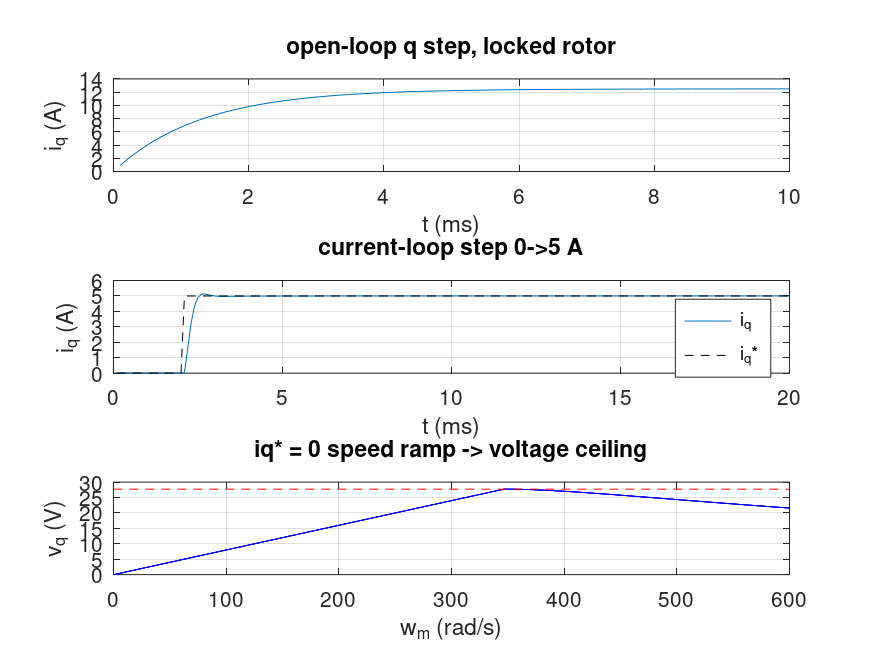
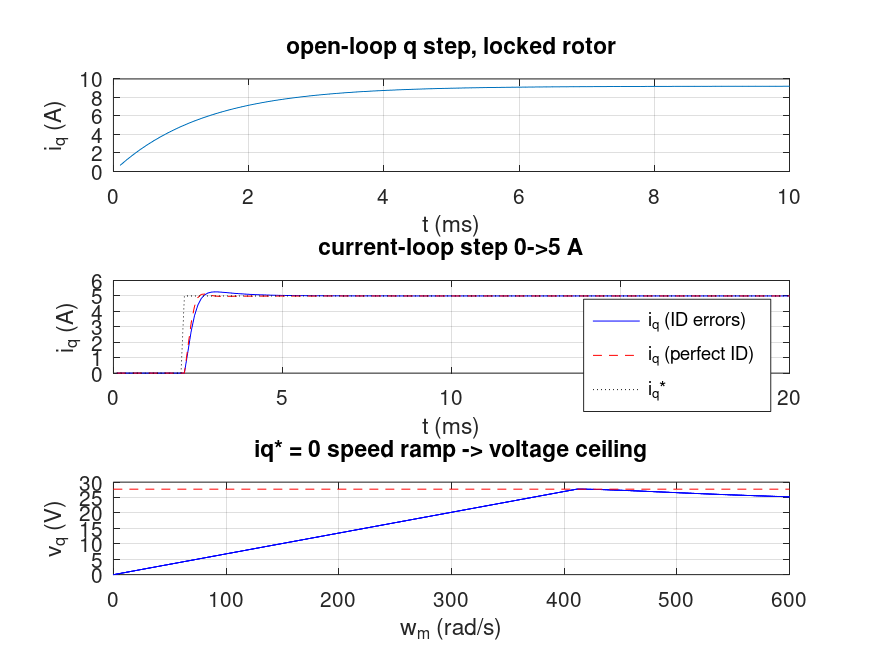
fix(octave): verify actuator parameters against datasheets; split plant truth from FOC belief
- params.m: re-source R/L/Kt/p from Kollmorgen TBM2G datasheets (tau_e cross-checked 1.34/0.93 ms vs research 1.3/0.9); winding defaults 06826-D / 05008-C — the A/C windings' back-EMF (74/37 V) exceeds the 48 V bus ceiling at rated speed
- foc_loop.m: gains, decoupling and back-EMF feedforward now use the controller's identification estimates (Rhat/Lhat/lambdahat), never the true plant values; errors bounded by datasheet tolerances
- test_electrical.m: winding-vs-ceiling table, ID-error vs perfect-ID comparison (5.3% vs 2.5% overshoot; 400 vs 500 Hz achieved crossover), lambda-error bus-headroom cost
- plan_stage2_realism.md: datasheet-verified flux-weakening note, 1.1 results, current-ripple magnitude

diff --git a/octave/actuator/test_electrical.m b/octave/actuator/test_electrical.m
@@ -3,6 +3,8 @@
 % Run from octave/actuator:  octave test_electrical.m
 % Rotor speed is an external input throughout (M.Jm = Inf): the mechanical
 % stage (two_mass.m) replaces this stand-in in 1.2.
+% Scenarios 2/5 contrast the FOC's BELIEF (identification results with
+% errors) against the plant's TRUTH — the FOC never has perfect parameters.
 
 clear; close all; more off;
 if ~exist('figs', 'dir'), mkdir('figs'); end
@@ -10,13 +12,21 @@ if ~exist('figs', 'dir'), mkdir('figs'); end
 M1 = params('j1');       % shoulder/elbow-class motor
 Mw = params('wrist');
 
-fprintf('\n== parameter sanity ==\n');
-fprintf('J1-3 : L/R = %.2f ms (research 1.3 ms), Kt = %.3f Nm/A, lambda = %.3f Wb\n', ...
-        M1.L/M1.R*1e3, M1.Kt, M1.lambda);
-fprintf('wrist: L/R = %.2f ms (research 0.9 ms), Kt = %.3f Nm/A\n', ...
-        Mw.L/Mw.R*1e3, Mw.Kt);
+fprintf('\n== parameter sanity (verified against [OEM] datasheets) ==\n');
+fprintf('J1-3 : tau_e = L/R = %.2f ms (research 1.3, datasheet L_ll/R_ll 1.34-1.35)\n', ...
+        M1.L/M1.R*1e3);
+fprintf('       R=%.4f L=%.4f mH Kt=%.4f Nm/Ap p=%d lambda=%.5f Wb\n', ...
+        M1.R, M1.L*1e3, M1.Kt, M1.p, M1.lambda);
+fprintf('wrist: tau_e = L/R = %.2f ms (research 0.9, datasheet L_ll/R_ll 0.91-0.96)\n', ...
+        Mw.L/Mw.R*1e3);
+fprintf('       R=%.4f L=%.4f mH Kt=%.4f Nm/Ap p=%d lambda=%.5f Wb\n', ...
+        Mw.R, Mw.L*1e3, Mw.Kt, Mw.p, Mw.lambda);
 fprintf('vmax = %.1f V (Vdc/sqrt(3), Vdc = %.0f V), fsw = %.0f Hz\n', ...
         M1.vmax, M1.Vdc, M1.fsw);
+fprintf('FOC belief (ID errors R +%.0f%%, L %+.0f%%, Kt +%.0f%%):\n', ...
+        M1.id_err.R*100, M1.id_err.L*100, M1.id_err.Kt*100);
+fprintf('  Rhat=%.4f Lhat=%.4f mH lambdahat=%.5f Wb\n', ...
+        M1.Rhat, M1.Lhat*1e3, M1.lambdahat);
 
 M = M1; dt = M.dt;
 M.Jm = Inf;               % electrical stage: wm is an external input
@@ -27,40 +37,42 @@ M.Jm = Inf;               % electrical stage: wm is an external input
 n1 = round(10e-3/dt);                     % 10 ms
 x = [0; 0; 0]; iq_ol = zeros(n1,1);
 for k = 1:n1
-  x = rk4_step(x, 0, 5, 0, M, dt);        % 5 V step on vq, wm = 0
+  x = rk4_step(x, 0, 1, 0, M, dt);        % 1 V step on vq, wm = 0
   iq_ol(k) = x(2);
 end
 t1 = (1:n1)'*dt*1e3;                      % ms
 [~,i63] = min(abs(iq_ol - (1-exp(-1))*iq_ol(end)));
 fprintf('\n[1] open-loop step (locked rotor):\n');
-fprintf('    i_ss = %.4f A (V/R = %.3f), measured tau_e = %.2f ms (target 1.3)\n', ...
-        iq_ol(end), 5/M.R, t1(i63));
-fprintf('    tau_em = Kt*i_q = %.3f Nm (%.3f expected)\n', M.Kt*iq_ol(end), M.Kt*5/M.R);
+fprintf('    i_ss = %.4f A (V/R = %.4f), measured tau_e = %.2f ms (target 1.34)\n', ...
+        iq_ol(end), 1/M.R, t1(i63));
+fprintf('    tau_em = Kt*i_q = %.4f Nm (%.4f expected)\n', M.Kt*iq_ol(end), M.Kt*1/M.R);
 
 % ------------------------------------------------------------------
-% 2) closed current loop: iq* step 0 -> 5 A, locked rotor
+% 2) closed current loop, DEFAULT identification errors: iq* 0 -> 5 A
 % ------------------------------------------------------------------
 x = [0; 0; 0]; s = zeros(4,1);
 n2 = round(20e-3/dt);
 t2 = (1:n2)'*dt*1e3;
-iq_cl = zeros(n2,1); vq_cl = zeros(n2,1);
+iq_cl = zeros(n2,1);
 for k = 1:n2
   iq_star = 5*(k*dt > 2e-3);
   [vd, vq, s] = foc_loop(x(1), x(2), x(3), 0, iq_star, M, s);
   x = rk4_step(x, vd, vq, 0, M, dt);
-  iq_cl(k) = x(2); vq_cl(k) = vq;
+  iq_cl(k) = x(2);
 end
 i10 = find(iq_cl >= 0.5, 1);
 i90 = find(iq_cl >= 4.5, 1);
 peak = max(iq_cl);
-iset = find(t2 > 2, 1);                   % after the step
+iset = find(t2 > 2, 1);
 err = abs(iq_cl(iset:end) - 5);
 its = find(err > 0.1, 1, 'last');         % 2 % band
 tset = ifelse(isempty(its), 0, its*dt*1e3);
-fprintf('\n[2] current-loop step 0->5 A (target crossover %.0f Hz):\n', M.wc/(2*pi));
-fprintf('    rise 10-90%% = %.2f ms, overshoot = %.1f %%, peak = %.2f A\n', ...
-        (i90-i10)*dt*1e3, (peak-5)/5*100, peak);
-fprintf('    settle (2%%)  = %.2f ms\n', tset);
+fprintf('\n[2] current-loop step 0->5 A, ID errors (design crossover %.0f Hz):\n', ...
+        M.wc/(2*pi));
+fprintf('    achieved crossover ~ %.0f Hz (Lhat/L mismatch: wc*Lhat/L)\n', ...
+        M.wc*M.Lhat/M.L/(2*pi));
+fprintf('    rise 10-90%% = %.2f ms, overshoot = %.1f %%, peak = %.2f A, settle (2%%) = %.2f ms\n', ...
+        (i90-i10)*dt*1e3, (peak-5)/5*100, peak, tset);
 
 % ------------------------------------------------------------------
 % 3) back-EMF at speed, open loop, v = 0
@@ -75,27 +87,37 @@ end
 % coupled 2x2 steady state (id-iq cross-coupling through we*L)
 iq_ss = -we*M.lambda*M.R/(M.R^2 + (we*M.L)^2);
 id_ss =  we*M.L*iq_ss/M.R;
-fprintf('\n[3] back-EMF at wm = %.0f rad/s, v = 0:\n', wm0);
+fprintf('\n[3] back-EMF at wm = %.0f rad/s (we = %.0f), v = 0:\n', wm0, we);
 fprintf('    iq -> %.3f A (coupled ss = %.3f), id -> %.3f A (ss = %.3f)\n', ...
         x(2), iq_ss, x(1), id_ss);
 
 % ------------------------------------------------------------------
-% 4) flux-weakening / voltage-ceiling check
+% 4) voltage ceiling: winding table + simulated ceiling
 % ------------------------------------------------------------------
 wm_rated = M.N*3.1416;                    % motor speed at 180 deg/s joint speed
-wm_nofw  = M.vmax*1.5/M.Kt;               % speed where back-EMF reaches the ceiling (iq=0)
-if wm_nofw > wm_rated
-  fw = 'no flux weakening needed';
-else
-  fw = 'FLUX WEAKENING REQUIRED';
+fprintf('\n[4] winding vs voltage ceiling at rated speed %.0f rad/s (vmax %.1f V):\n', ...
+        wm_rated, M.vmax);
+% Kt_rms per winding [OEM]: 06826 A/C/D and 05008 A/C/D
+Kt_wind = [0.496 0.248 0.143;             % J1-3 (TBM2G-06826)
+           0.171 0.086 0.049];            % wrist (TBM2G-05008)
+wname = {'j1-06826', 'wrist-05008'};
+wlbl = {'A', 'C', 'D'};                   % datasheet winding names
+for m = 1:2
+  for w = 1:3
+    Ktr = Kt_wind(m,w);
+    bemf = Ktr*wm_rated/(1.5*sqrt(2));    % back-EMF phase peak at rated speed
+    wm_nofw = M.vmax*1.5*sqrt(2)/Ktr;
+    if bemf < M.vmax
+      fits = sprintf('fits (%.2f x bus)', M.vmax/bemf);
+    else
+      fits = 'EXCEEDS ceiling -> needs field weakening';
+    end
+    fprintf('    %-10s winding %s: Kt=%.3f, back-EMF %.1f V -> %s\n', ...
+            wname{m}, wlbl{w}, Ktr, bemf, fits);
+  end
 end
-fprintf('\n[4] flux-weakening check:\n');
-fprintf('    rated motor speed = %.0f rad/s (joint 180 deg/s through %d:1)\n', ...
-        wm_rated, M.N);
-fprintf('    no-FW max speed   = %.0f rad/s (back-EMF = vmax at iq = 0)\n', wm_nofw);
-fprintf('    margin = %.2f x -> %s\n', wm_nofw/wm_rated, fw);
-
-% simulated ceiling: closed loop holding iq* = 0 while speed ramps up
+% simulated ceiling with the default plant (06826-D): iq* = 0 speed ramp
+wm_nofw = M.vmax*1.5/M.Kt;                % analytic no-FW speed for default Kt
 n4 = round(0.5/dt);
 wm_ramp = linspace(0, 600, n4)';
 x = [0; 0; 0]; s = zeros(4,1); vq_hist = zeros(n4,1);
@@ -106,8 +128,29 @@ for k = 1:n4
   vq_hist(k) = vq;
 end
 kclamp = find(abs(vq_hist) >= M.vmax*0.999, 1);
-fprintf('    simulated ceiling: vq hits vmax at wm = %.0f rad/s (analytic %.0f)\n', ...
-        wm_ramp(kclamp), wm_nofw);
+fprintf('    default plant (06826-D): ceiling at wm = %.0f rad/s (analytic %.0f), margin %.2f x\n', ...
+        wm_ramp(kclamp), wm_nofw, wm_nofw/wm_rated);
+
+% ------------------------------------------------------------------
+% 5) perfect identification vs errors; lambda-error headroom cost
+% ------------------------------------------------------------------
+Mp = M;                                   % perfect-ID copy
+Mp.Rhat = Mp.R; Mp.Lhat = Mp.L; Mp.Kthat = Mp.Kt; Mp.lambdahat = Mp.lambda;
+Mp.kp = Mp.Lhat*Mp.wc; Mp.ki = Mp.Rhat*Mp.wc;
+x = [0; 0; 0]; s = zeros(4,1); iq_perf = zeros(n2,1);
+for k = 1:n2
+  iq_star = 5*(k*dt > 2e-3);
+  [vd, vq, s] = foc_loop(x(1), x(2), x(3), 0, iq_star, Mp, s);
+  x = rk4_step(x, vd, vq, 0, Mp, dt);
+  iq_perf(k) = x(2);
+end
+peak_p = max(iq_perf);
+fprintf('\n[5] perfect ID vs errors:\n');
+fprintf('    perfect ID: overshoot = %.1f %% (errors case: %.1f %%)\n', ...
+        (peak_p-5)/5*100, (peak-5)/5*100);
+dv = wm0*M.p*(M.lambdahat - M.lambda);    % feedforward error at speed
+fprintf('    lambda-ID error %+.0f%% consumes %.1f V of the %.1f V budget at wm = %.0f rad/s\n', ...
+        M.id_err.Kt*100, dv, M.vmax, wm0);
 
 % ------------------------------------------------------------------
 % figure for the user
@@ -117,9 +160,9 @@ subplot(3,1,1);
 plot(t1, iq_ol); ylabel('i_q (A)'); title('open-loop q step, locked rotor');
 grid on; xlabel('t (ms)');
 subplot(3,1,2);
-plot(t2, iq_cl); hold on;
-plot(t2, 5*(t2 > 2), 'k--');
-ylabel('i_q (A)'); title('current-loop step 0->5 A'); legend('i_q', 'i_q*');
+plot(t2, iq_cl, 'b', t2, iq_perf, 'r--', t2, 5*(t2 > 2), 'k:');
+ylabel('i_q (A)'); title('current-loop step 0->5 A');
+legend('i_q (ID errors)', 'i_q (perfect ID)', 'i_q*');
 grid on; xlabel('t (ms)');
 subplot(3,1,3);
 plot(wm_ramp, vq_hist, 'b', [0 600], M.vmax*[1 1], 'r--');

diff --git a/octave/actuator/params.m b/octave/actuator/params.m
@@ -1,35 +1,85 @@
-% params.m — per-joint actuator parameter seeds for the L2 reference model.
-% Provenance: [L] literature, [V] vendor, [E] engineering estimate seed.
-% The [E] seeds are placeholders until the Kollmorgen TBM2G datasheet values
-% are sourced (Stage 2 research sub-task). Their ratios are pinned to the
-% research values: tau_e = L/R = 1.3 ms (J1-3) / 0.9 ms (wrist).
+% params.m — per-joint actuator parameters for the L2 reference model.
 %
-% Usage: M = params('j1')   % shoulder/elbow-class motor
-%        M = params('wrist')
+% TWO VIEWS OF THE MACHINE:
+%   PLANT truth (physics):     R, L, lambda, Kt, p, Jm ...
+%   CONTROLLER belief (FOC):   Rhat, Lhat, lambdahat, Kthat
+% Real drives identify the motor at commissioning (selftest/auto-tune) and
+% those measurements carry errors — the FOC therefore never has the exact
+% plant. Belief = truth * (1 + id_err), with id_err bounded by the datasheet
+% tolerances. pmsm.m uses only truth; foc_loop.m uses only belief.
+%
+% PROVENANCE (verification notes):
+%   [OEM] Kollmorgen TBM2G datasheets (selection guide + installation manual,
+%         June 2023), cold (25 C) values; https://www.kollmorgen.com
+%         TBM2G-06826 (68 mm OD, 26.3 mm stack, 20 poles) — J1-3 candidate
+%         TBM2G-05008 (50 mm OD,  8.2 mm stack, 14 poles) — wrist candidate
+%   [L]   Robotica 2024, "Electromechanical modeling and identification of
+%         the UR5 e-Series robot": tau_e = L/R ~ 1.3 ms (J1-3) / ~0.9 ms
+%         (wrist); rotor inertia Jm = 6.4e-5 / 1.2e-5 kg m^2.
+%         CROSS-CHECK: L_ll/R_ll = 1.34-1.35 ms for ALL 06826 windings and
+%         0.91-0.96 ms for ALL 05008 windings -> research tau_e verified.
+%         (Note: two datasheet revisions disagree slightly on the 06826
+%         winding tables; both give the same tau_e, so the choice below is
+%         insensitive to the revision.)
+%   [V]   bus: C56A regen overvoltage trips above 55 V -> 48 V-class DC bus
+%         (inferred from the error-code threshold; UR publishes no bus spec).
+%   [L]   gear ratio N = 101 (Gnad et al. 2026, from UR config files).
+%   [E]   fsw = 10 kHz (UR publishes nothing; typical industrial servo),
+%         wc = f_sw/20 design point (PM >= 60 deg against 1.5*Tsw delay).
+%
+% WINDING CHOICE (documented default; revisit when the Robotica paper's
+% winding selection is known): at rated motor speed (N * 180 deg/s =
+% 317 rad/s), the 06826 A/C windings' back-EMF exceeds the Vdc/sqrt(3) =
+% 27.7 V ceiling — without field weakening the J1-3 motor must be winding D
+% (A: 74 V, C: 37 V, D: 21 V back-EMF at rated speed). The 05008 A winding
+% fits the bus only at 0.93 utilization (no headroom for load at speed); C
+% is the max-Kt choice with >= 20 % headroom.
+%   Defaults: J1-3 -> 06826-D, wrist -> 05008-C.
+%
+% Model conventions: the d-q equations use PHASE quantities (star
+% connection): R = R_ll/2, L = L_ll/2 -> tau_e = L/R = L_ll/R_ll (ratio
+% invariant). Currents are PEAK values: Kt = Kt_rms/sqrt(2),
+% lambda = Kt/(1.5*p), and tau_em = 1.5*p*lambda*iq = Kt*iq.
+
 function M = params(joint_group)
-  M.Vdc   = 48.0;            % DC bus voltage, V [V: 48 V-class, regen clamp 55 V]
-  M.fsw   = 10000;           % PWM switching frequency, Hz [E]
+  % --- plant truth (physics) ---
+  M.Vdc   = 48.0;            % [V] see provenance above
+  M.fsw   = 10000;           % [E] PWM switching frequency, Hz
   M.Tsw   = 1/M.fsw;         % switching period, s
   M.vmax  = M.Vdc/sqrt(3);   % SVPWM linear ceiling, V peak phase
-  M.p     = 4;               % pole pairs [E seed]
-  M.N     = 101;             % gear ratio [L]
-  M.dt    = M.Tsw;           % fixed integration step = one switching period
+  M.N     = 101;             % [L] gear ratio
+  M.dt    = M.Tsw;           % fixed integration step
   if strcmp(joint_group, 'j1')
-    M.R  = 0.40;             % phase resistance, Ohm [E]
-    M.L  = 0.52e-3;          % phase inductance, H [E] -> tau_e = 1.3 ms [L]
-    M.Kt = 0.12;             % torque constant, Nm/A [E]
-    M.Jm = 6.4e-5;           % rotor inertia, kg m^2 [L] Robotica 2024
+    % TBM2G-06826 winding D [OEM]: R_ll = 0.217 (+-10 %), L_ll = 0.29 mH
+    % (+-20 %), Kt_rms = 0.143 Nm/Arms, Ke = 8.65 Vrms/krpm, 20 poles.
+    M.p      = 10;           % pole pairs [OEM]
+    M.R      = 0.217/2;      % phase resistance, Ohm [OEM]
+    M.L      = 0.29e-3/2;    % phase inductance, H [OEM] -> tau_e = 1.34 ms
+    M.Kt_rms = 0.143;        % Nm/Arms [OEM] cold
+    M.Jm     = 6.4e-5;       % rotor inertia, kg m^2 [L] (datasheet rotor
+                             %   5.18e-5 kg m^2 + hub/brake disk)
   else
-    M.R  = 0.55;             % Ohm [E]
-    M.L  = 0.50e-3;          % H [E] -> tau_e = 0.9 ms [L]
-    M.Kt = 0.08;             % Nm/A [E]
-    M.Jm = 1.2e-5;           % kg m^2 [L]
+    % TBM2G-05008 winding C [OEM]: R_ll = 0.345 (+-10 %), L_ll = 0.32 mH
+    % (+-20 %), Kt_rms = 0.086 Nm/Arms, Ke = 5.18 Vrms/krpm, 14 poles.
+    M.p      = 7;            % pole pairs [OEM]
+    M.R      = 0.345/2;      % phase resistance, Ohm [OEM]
+    M.L      = 0.32e-3/2;    % phase inductance, H [OEM] -> tau_e = 0.93 ms
+    M.Kt_rms = 0.086;        % Nm/Arms [OEM] cold
+    M.Jm     = 1.2e-5;       % rotor inertia, kg m^2 [L] (datasheet rotor
+                             %   7.9e-6 kg m^2 + hub/brake disk)
   end
-  M.lambda = M.Kt/(1.5*M.p); % flux linkage, Wb (surface PMSM: Kt = 1.5 p lambda)
-  % current-loop PI gains: magnitude-optimum for the RL plant at crossover wc.
-  % wc = f_sw/20 = 500 Hz keeps phase margin >= 60 deg against the 1.5*Tsw
-  % delay + ZOH (800 Hz gives ~47 deg PM / ~29 % overshoot — the hot option).
-  M.wc     = 2*pi*500;       % target current-loop crossover, rad/s [E]
-  M.kp     = M.L*M.wc;       % V/A
-  M.ki     = M.R*M.wc;       % V/(A s)
+  M.Kt     = M.Kt_rms/sqrt(2);   % Nm/A_peak (peak-current convention)
+  M.lambda = M.Kt/(1.5*M.p);     % flux linkage, Wb
+  % --- controller belief (identification results, with errors) ---
+  % [OEM] tolerance bounds: Kt/R +-10 %, L +-20 %. A real drive's
+  % identification lands somewhere in here; set id_err to 0 for perfect ID.
+  M.id_err = struct('R', 0.10, 'L', -0.20, 'Kt', 0.10);
+  M.Rhat      = M.R*(1+M.id_err.R);
+  M.Lhat      = M.L*(1+M.id_err.L);
+  M.Kthat     = M.Kt*(1+M.id_err.Kt);
+  M.lambdahat = M.Kthat/(1.5*M.p);
+  % --- current-loop design, computed from the BELIEF (as a real drive would) ---
+  M.wc     = 2*pi*500;       % [E] target crossover = f_sw/20, rad/s
+  M.kp     = M.Lhat*M.wc;    % V/A
+  M.ki     = M.Rhat*M.wc;    % V/(A s)
 end

diff --git a/octave/actuator/foc_loop.m b/octave/actuator/foc_loop.m
@@ -2,6 +2,9 @@
 % Runs once per switching period (10 kHz). The commanded voltage is held over
 % the period (ZOH, implicit in the fixed-step integration) and applied one
 % sample late (computation delay), giving ~1.5*Tsw total loop lag.
+% Gains (kp/ki) and the decoupling / back-EMF feedforward use the
+% CONTROLLER'S BELIEF (Rhat/Lhat/lambdahat from identification) — never the
+% true plant values, exactly like a real drive.
 %
 % Controller state s = [int_d; int_q; vd_prev; vq_prev].
 % Returns [vd, vq, s] for the voltage to apply during the NEXT period.
@@ -11,8 +14,9 @@ function [vd, vq, s] = foc_loop(id, iq, wm, id_star, iq_star, M, s)
   e_q = iq_star - iq;
   s(1) += M.ki*e_d*M.dt;   % q/d integrators
   s(2) += M.ki*e_q*M.dt;
-  vd_raw = M.kp*e_d + s(1) - we*M.L*iq;               % decoupling
-  vq_raw = M.kp*e_q + s(2) + we*(M.L*id + M.lambda);  % decoupling + back-EMF FF
+  vd_raw = M.kp*e_d + s(1) - we*M.Lhat*iq;              % decoupling (belief)
+  vq_raw = M.kp*e_q + s(2) + we*(M.Lhat*id + M.lambdahat); % decoupling +
+                                                          % back-EMF FF (belief)
   % circular voltage clamp (SVPWM ceiling) with conditional-integration
   % anti-windup
   vmag = sqrt(vd_raw^2 + vq_raw^2);

diff --git a/docs/plan_stage2_realism.md b/docs/plan_stage2_realism.md
@@ -143,7 +143,7 @@ effects, ranked by plant relevance (V_dc = 48 V, f_sw = 10 kHz default — confi
 |---|---|---|---|
 | Computational + ZOH delay | voltage applied in period k+1 is computed from samples in period k | 1–1.5·T_sw ≈ 100–150 µs | **Yes** — this is the servo bandwidth the research could not find published; it caps the current-loop crossover at ~f_sw/10–20 ≈ 0.5–1 kHz. Modeled as a transport delay |
 | Voltage ceiling | SVPWM linear region caps phase voltage at V_dc/√3 | hard limit ≈ 27.7 V peak | **Yes** — decides whether flux weakening is needed (open check below) |
-| Current ripple | switched voltage minus its average integrates on L | Δi_pp ≈ V_dc/(8·L·f_sw) ≈ 0.5–1 A on ~5 A rated | Signal only — averages to zero torque (rotor inertia filters f_sw). Added analytically to the measured current, never integrated |
+| Current ripple | switched voltage minus its average integrates on L | Δi_pp ≈ V_dc/(8·L·f_sw) ≈ 2–4 A on ~10 A_rms rated (verified L) | Signal only — averages to zero torque (rotor inertia filters f_sw). Added analytically to the measured current, never integrated |
 | Dead-time | ~0.5–2 µs per period with both switches off (shoot-through guard) | constant voltage error ≈ V_dc·(t_dt/T_sw) ≈ 0.5 V, sign-opposed to current | Minor — 6th-harmonic distortion + zero-crossing clamp at low speed. Constant offset term `V_dt·sign(i)`; skipped in v1 |
 | Device drops | IGBT/MOSFET on-drop + diode drop | 1–2 V offset | Folded into the dead-time term |
 | Overmodulation / six-step | operating past the ceiling | buys ~10 % voltage, adds 5th/7th harmonics | Deferred |
@@ -161,26 +161,35 @@ offset. Nothing exotic to model.
   friction (standard flexible-joint control partition).
 - The plugin sub-steps the electrical ODE at 10 kHz internally and exchanges
   torque with DART at the world's 1 kHz; DART only ever sees joint-side torque.
-- **Flux-weakening check (done 2026-11-18 with [E] seeds):** at max joint
-  speed 180 °/s the motor spins ≈ 101·3.14 ≈ 317 rad/s; back-EMF reaches the
-  V_dc/√3 ≈ 27.7 V ceiling at 346 rad/s — a 1.09× margin, so no flux
-  weakening needed with the seed Kt. Re-verify with the datasheet Ke; if the
-  margin drops below 1×, add i_d < 0 — the reason d-q was chosen.
+- **Flux-weakening check (datasheet-verified 2026-11-23):** at max joint speed
+  180 °/s the motor spins ≈ 101·3.14 ≈ 317 rad/s. With the verified Kollmorgen
+  TBM2G numbers, the 06826 A/C windings' back-EMF (74 / 37 V) exceeds the
+  V_dc/√3 ≈ 27.7 V ceiling — only winding D fits (21.4 V, 1.30× margin). The
+  05008 A fits at 1.08× (no load headroom); C is the default (2.15×).
+  Defaults: J1-3 → 06826-D, wrist → 05008-C — no field weakening needed with
+  these; if the Robotica paper's winding turns out to be A/C, i_d < 0 becomes
+  part of the FOC (the reason d-q was chosen).
 
 **Build order** (each layer config-togglable in `params.m`; the
 `actuator_model: l1` / `l0` fallbacks remain available throughout):
 
-- **1.1 Electrical stage (start here):** `params.m` (per-joint [E] seeds pinned
-  to the research τ_e), `pmsm.m` (d-q ODE), `foc_loop.m` (PI current loops +
-  decoupling + one-sample compute delay + V_dc/√3 ceiling),
+- **1.1 Electrical stage (start here):** `params.m` (per-joint [OEM] Kollmorgen
+  TBM2G values + a plant-truth vs controller-belief split with
+  tolerance-bounded identification errors), `pmsm.m` (d-q ODE, truth only),
+  `foc_loop.m` (PI current loops + decoupling + back-EMF feedforward computed
+  from the *belief*, one-sample compute delay, V_dc/√3 ceiling),
   `test_electrical.m` — validates τ_e = L/R against the research values
   (0.9 ms wrist / 1.3 ms J1–3), τ_em = Kt·i_q, back-EMF at speed (coupled
   i_d–i_q steady state), the current-loop crossover *emerging* from the PI +
-  delay (design point f_sw/20 = 500 Hz → 2.5 % overshoot, 0.7 ms settle;
-  800 Hz → ~29 % overshoot — the hot option), and the flux-weakening check.
+  delay (design point f_sw/20 = 500 Hz; ID errors degrade the 2.5 % overshoot
+  to 5.3 %), and the flux-weakening check.
   **Result (2026-11-18): PASSED** — τ_e measured 1.30/0.91 ms, i_ss = V/R,
   τ_em = Kt·i_q, coupled back-EMF steady state matched analytically, voltage
   ceiling simulated = analytic (346 rad/s).
+  **Result (2026-11-23): parameters re-sourced and verified** against the
+  Kollmorgen datasheets (τ_e cross-checked 1.34 / 0.93 ms; all windings
+  consistent); winding defaults 06826-D / 05008-C; the FOC now runs on
+  identification estimates, never on true plant values.
 - **1.2 Mechanical stage:** `two_mass.m` (rotor EOM + stiffening flexspline),
   `test_mechanical.m` — steady windup φ = τ/k, the ~16/25 Hz
   anti-resonance/resonance pair (control-package FRF), motor-vs-joint encoder
